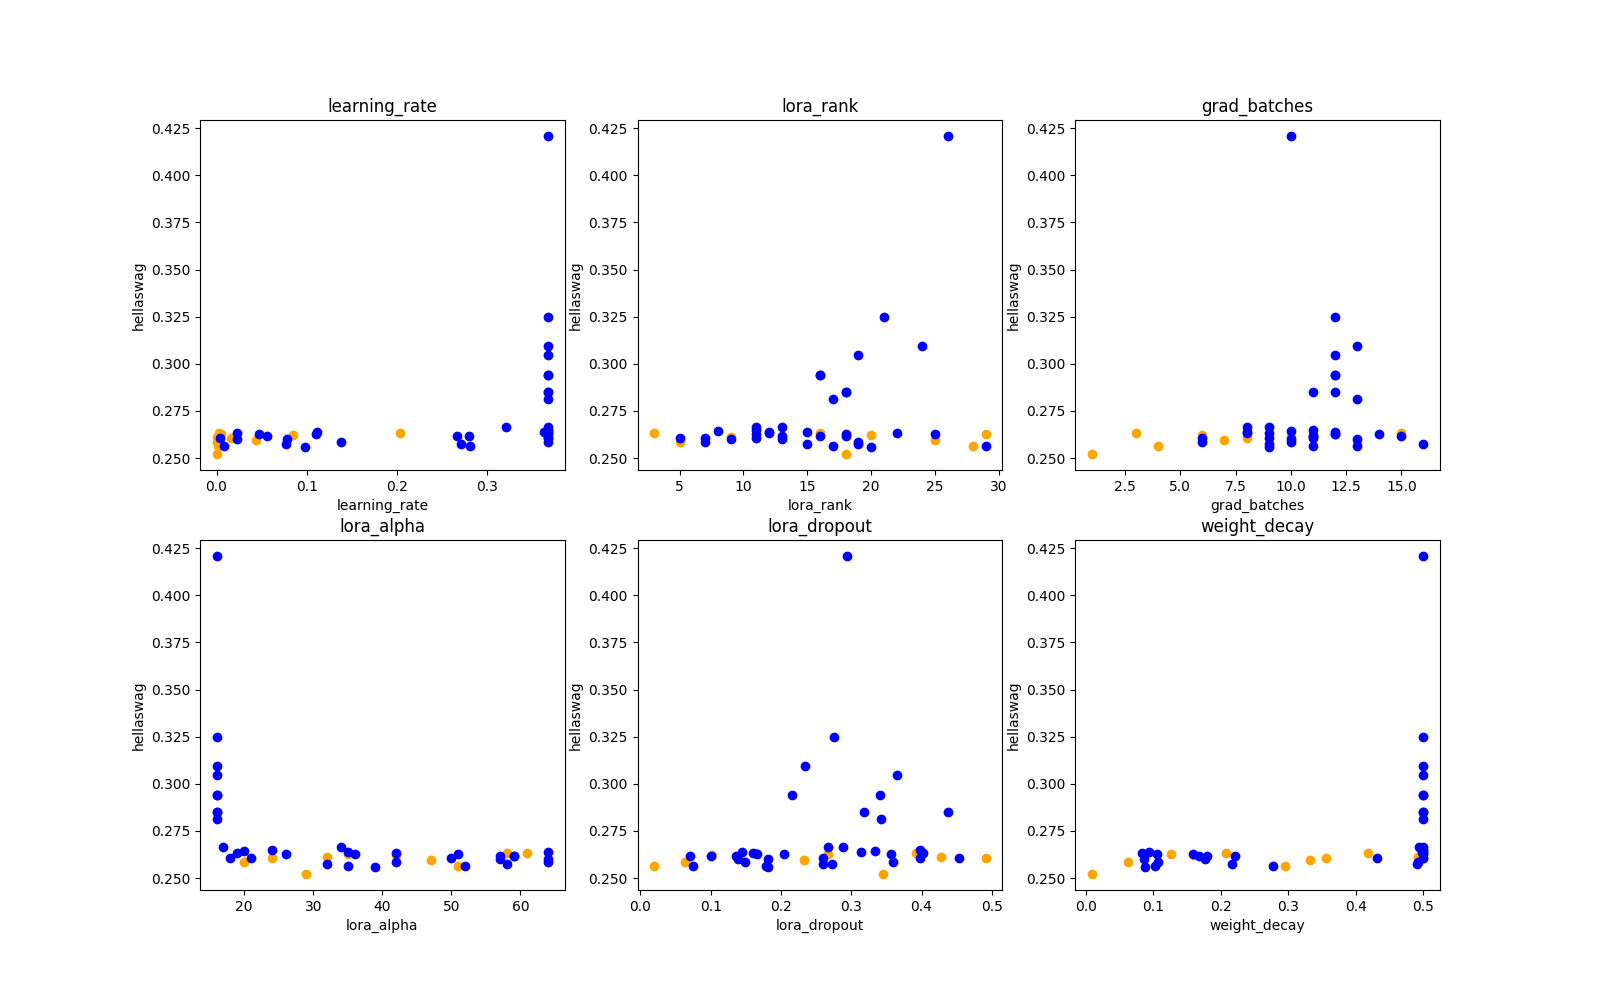
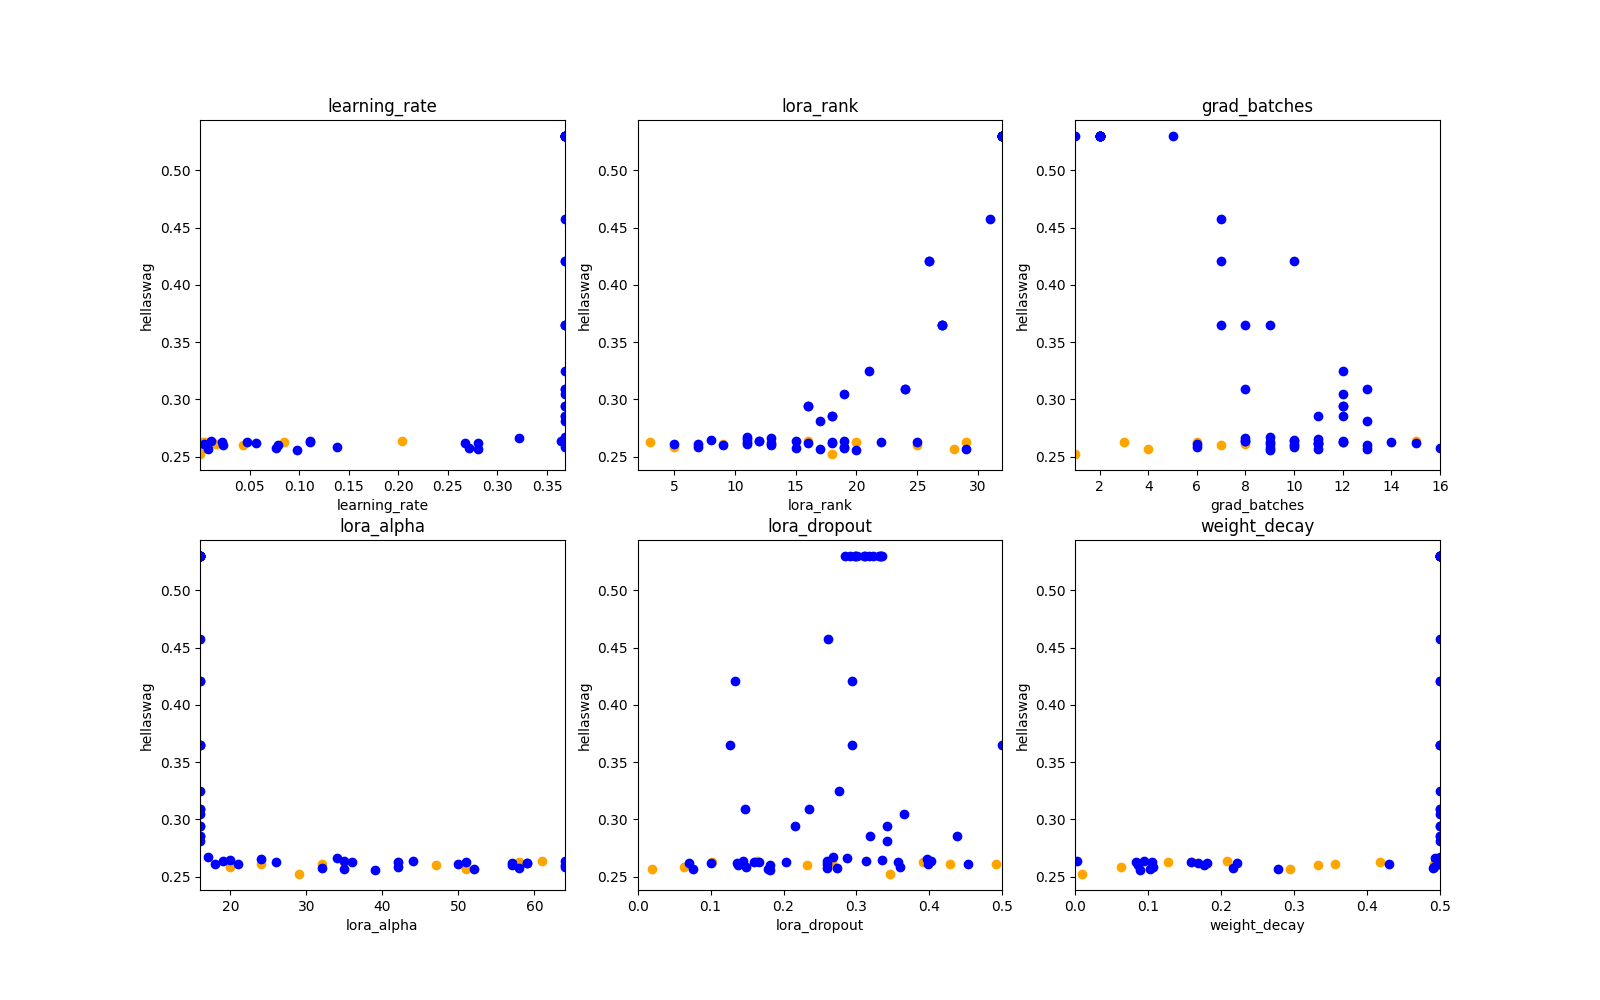
final analysis of exp03

diff --git a/optimization/experiments/analysis.py b/optimization/experiments/analysis.py
@@ -1,8 +1,14 @@
 import pandas as pd
 import matplotlib.pyplot as plt
+import json, math
 
 folder_path = "exp03_bo_LHS/"
 task = "hellaswag"
+
+with open(f"{folder_path}/config.json") as f:
+    config = json.load(f)
+experiment = config["experiment"]
+hyperparameters = config["hyperparameters"]
 
 data = pd.read_json(folder_path+"export.json",lines=True)
 X = pd.json_normalize(data["hyperparameters"])
@@ -26,8 +32,37 @@ for i, name in enumerate(hp_names):
     axes[row, col].set_title(name)
     axes[row, col].set_xlabel(name)
     axes[row, col].set_ylabel(task)
+    if hyperparameters[name]["type"] != "exp":
+        axes[row, col].set_xlim(hyperparameters[name]["min"], hyperparameters[name]["max"])
+    else : 
+        axes[row, col].set_xlim(math.exp(hyperparameters[name]["min"]),
+            math.exp( hyperparameters[name]["max"]))
 plt.savefig(folder_path+"score_by_variable.png")
 plt.show()
+
+# Create a (3,2) grid of subplots
+fig, axes = plt.subplots(3, 2, figsize=(16, 10))
+
+# Iterate over the hyperparameter names and plot each scatter plot in a separate subplot
+for i, name in enumerate(hp_names):
+    row = i // 2
+    col = i % 2
+    axes[row, col].scatter(range(len(X[name][ph_mask])), X[name][ph_mask], label = "sampling", c="orange")
+    axes[row, col].scatter(range(len(X[name][~ph_mask])), X[name][~ph_mask], label = "sampling", c="blue")
+    axes[row, col].set_title(name)
+    axes[row, col].set_xlabel(name)
+    axes[row, col].set_ylabel(task)
+    if hyperparameters[name]["type"] != "exp":
+        axes[row, col].set_ylim(hyperparameters[name]["min"], hyperparameters[name]["max"])
+    else : 
+        axes[row, col].set_ylim(
+            math.exp(hyperparameters[name]["min"]),
+            math.exp( hyperparameters[name]["max"]))
+fig.suptitle("Evolution of "+task+" by Variable")
+fig.tight_layout()
+plt.savefig(folder_path+"variable_over_time.png")
+plt.show()
+
 
 # Create a new subplot for the evolution of Y by iterations
 fig2, ax2 = plt.subplots(figsize=(8, 6))
